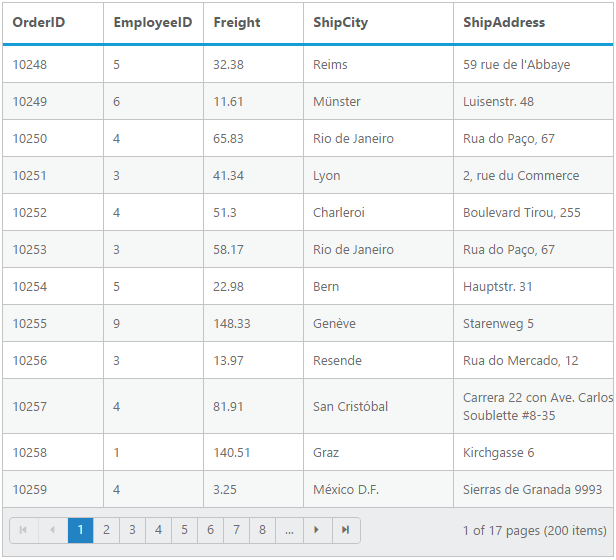
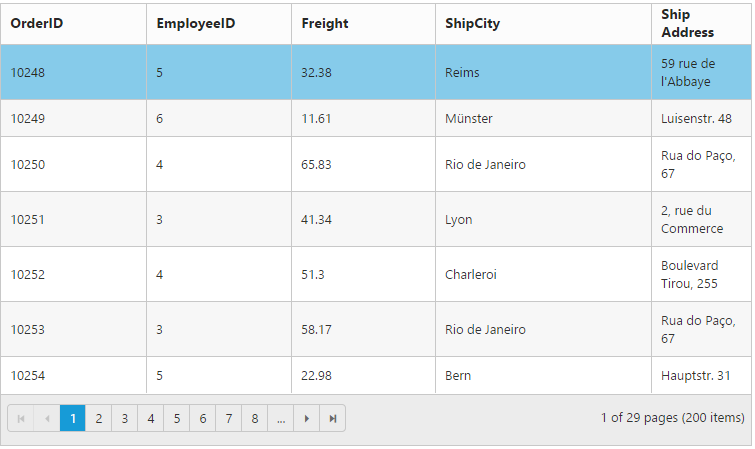
Committed document for new api TextWrapSettings in mvc

diff --git a/aspnetmvc/Grid/Cell.md b/aspnetmvc/Grid/Cell.md
@@ -9,9 +9,27 @@ documentation: ug
 
 # Cell
 
-## Auto wrap column
+## Auto wrap 
 
-`AllowTextWrap` property enables the grid to wrap cell content to next line when the content exceeds the boundary of the cell width. 
+Auto wrap enables the Grid to wrap cell content or header content to next line when the content exceeds the boundary of the cell width. To enable auto wrap, set `AllowTextWrap` property as `true`. 
+
+We can specify the mode of auto wrap using `WrapMode` property of the `TextWrapSettings`. 
+
+Three types of `WrapMode` are available and they are,
+  
+ 1. Both
+ 2. Header
+ 3. Content 
+ 
+N> 1. By default the `WrapMode` will be set as `Both`. 
+
+N> 2. While using `TextWrapSettings` then it is must to set `AllowTextWrap` as `true`.
+
+N> 3. For `WrapMode` property you can assign `enum` value (`Syncfusion.JavaScript.WrapMode.Both`).
+ 
+## Both
+
+When `WrapMode` of `TextWrapSettings` property set as `Both` then the auto wrap will be enable for both grid content and header. 
 
 The following code example describes the above behavior.
 
@@ -23,13 +41,14 @@ The following code example describes the above behavior.
             .Datasource((IEnumerable<object>)ViewBag.DataSource)
             .AllowPaging()
             .AllowTextWrap()
+            .TextWrapSettings(wrap => { wrap.WrapMode(WrapMode.Both); })
             .Columns(col =>
             {
                 col.Field("OrderID").Width(100).Add();
                 col.Field("EmployeeID").Width(100).Add();
                 col.Field("Freight").Width(100).Add();
                 col.Field("ShipCity").Width(150).Add();
-                col.Field("ShipAddress").Width(100).Add();
+                col.Field("ShipAddress").HeaderText("Ship Address").Width(100).Add();
             }))
 {% endhighlight  %}
 
@@ -54,6 +73,100 @@ The following code example describes the above behavior.
 The following output is displayed as a result of the above code example.
 
 ![](Cell_images/Cell_img1.png)
+
+### Header
+
+When `WrapMode` of `TextWrapSettings` property set as `Header` then the auto wrap will be enable only for grid header alone. 
+
+The following code example describes the above behavior.
+
+{% tabs %}
+
+{% highlight CSHTML %}
+
+    @(Html.EJ().Grid<Object>("FlatGrid")
+            .Datasource((IEnumerable<object>)ViewBag.DataSource)
+            .AllowPaging()
+            .AllowTextWrap()
+            .TextWrapSettings(wrap => { wrap.WrapMode(WrapMode.Header); })
+            .Columns(col =>
+            {
+                col.Field("OrderID").Width(100).Add();
+                col.Field("EmployeeID").Width(100).Add();
+                col.Field("Freight").Width(100).Add();
+                col.Field("ShipCity").Width(150).Add();
+                col.Field("ShipAddress").HeaderText("Ship Address").Width(100).Add();
+            }))
+{% endhighlight  %}
+
+{% highlight C# %}
+
+    namespace MVCSampleBrowser.Controllers
+            {
+            public class GridController : Controller
+                { 
+                public ActionResult GridFeatures()
+                    {
+                        var DataSource = new NorthwindDataContext().OrdersViews.ToList();
+                        ViewBag.DataSource = DataSource;
+                        return View();
+            }
+        }
+    }   
+{% endhighlight  %}
+
+{% endtabs %}  
+
+The following output is displayed as a result of the above code example.
+
+![](Cell_images/Cell_img1_1.png)
+
+### Content
+
+When `WrapMode` of `TextWrapSettings` property set as `Content` then the auto wrap will be enable only for grid content alone. 
+
+The following code example describes the above behavior.
+
+{% tabs %}
+
+{% highlight CSHTML %}
+
+    @(Html.EJ().Grid<Object>("FlatGrid")
+            .Datasource((IEnumerable<object>)ViewBag.DataSource)
+            .AllowPaging()
+            .AllowTextWrap()
+            .TextWrapSettings(wrap => { wrap.WrapMode(WrapMode.Header); })
+            .Columns(col =>
+            {
+                col.Field("OrderID").Width(100).Add();
+                col.Field("EmployeeID").Width(100).Add();
+                col.Field("Freight").Width(100).Add();
+                col.Field("ShipCity").Width(150).Add();
+                col.Field("ShipAddress").HeaderText("Ship Address").Width(100).Add();
+            }))
+{% endhighlight  %}
+
+{% highlight C# %}
+
+    namespace MVCSampleBrowser.Controllers
+            {
+            public class GridController : Controller
+                { 
+                public ActionResult GridFeatures()
+                    {
+                        var DataSource = new NorthwindDataContext().OrdersViews.ToList();
+                        ViewBag.DataSource = DataSource;
+                        return View();
+            }
+        }
+    }   
+{% endhighlight  %}
+
+{% endtabs %}  
+
+The following output is displayed as a result of the above code example.
+
+![](Cell_images/Cell_img1_2.png)
 
 ## Cell Merging
 
